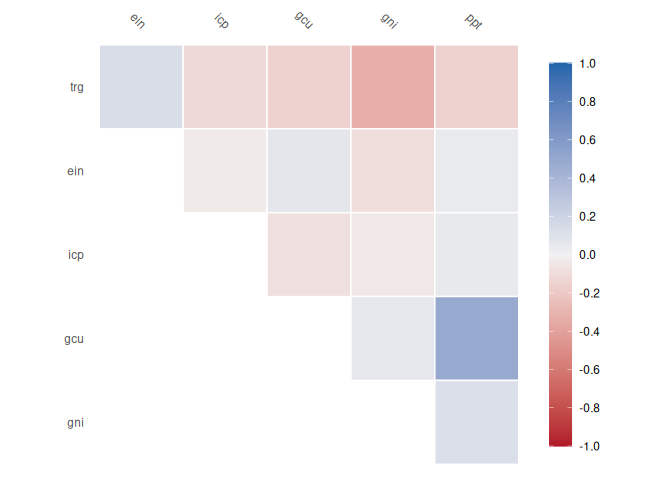
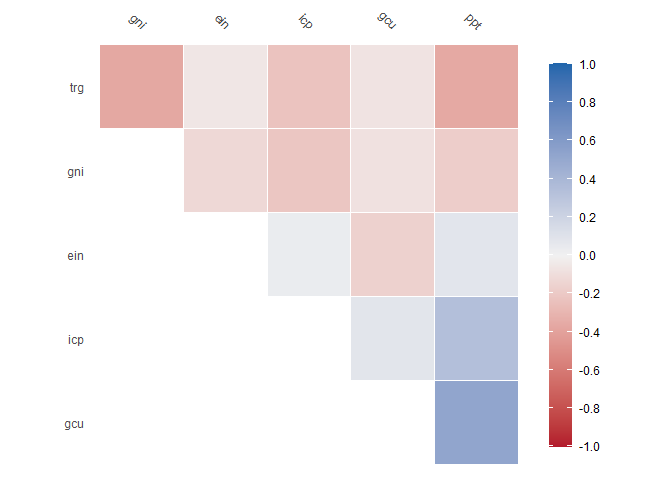
readme file updated

diff --git a/README.md b/README.md
@@ -36,12 +36,12 @@ head(wb)
 #> # A tibble: 6 × 4
 #>   iso3c indicator          year    value
 #>   <chr> <chr>             <dbl>    <dbl>
-#> 1 AFG   Population, total  2012 30466479
-#> 2 AFG   Population, total  2011 29249157
-#> 3 AFG   Population, total  2010 28189672
-#> 4 ALB   Population, total  2012  2900401
-#> 5 ALB   Population, total  2011  2905195
-#> 6 ALB   Population, total  2010  2913021
+#> 1 DZA   Population, total  2012 37260563
+#> 2 DZA   Population, total  2011 36543541
+#> 3 DZA   Population, total  2010 35856344
+#> 4 AGO   Population, total  2012 25188292
+#> 5 AGO   Population, total  2011 24259111
+#> 6 AGO   Population, total  2010 23364185
 ```
 
 Here you can see that the format is not conducive to regression or other
@@ -64,13 +64,13 @@ print(mdl)
 #> 6 trg                      Trade (% of GDP)
 #> Matrix: 
 #> # A tibble: 5 × 6
-#>     ein          gcu   gni   icp      ppt   trg
-#>   <dbl>        <dbl> <dbl> <dbl>    <dbl> <dbl>
-#> 1  NA   19907329778.    NA  6.44 30466479  NA  
-#> 2  NA   17805098206.    NA 11.8  29249157  NA  
-#> 3  NA   15856668556.    NA  2.18 28189672  NA  
-#> 4  16.3 12319834195.    29  2.03  2900401  76.5
-#> 5  33.3 12890760315.    NA  3.43  2905195  81.2
+#>     ein           gcu   gni   icp      ppt   trg
+#>   <dbl>         <dbl> <dbl> <dbl>    <dbl> <dbl>
+#> 1 -213. 227143746076.  NA    8.89 37260563  60.8
+#> 2 -249. 218331946925.  27.6  4.52 36543541  62.2
+#> 3 -275. 177785053940.  NA    3.91 35856344  63.5
+#> 4 -590. 128052915766.  NA   10.3  25188292  91.8
+#> 5 -619. 111789747671.  NA   13.5  24259111 100.
 ```
 
 This can now be used for regressions
@@ -85,20 +85,20 @@ summary(fit)
 #> 
 #> Residuals:
 #>     Min      1Q  Median      3Q     Max 
-#> -11.625  -5.824  -1.688   4.949  27.141 
+#> -11.128  -5.515   1.219   4.132  24.701 
 #> 
 #> Coefficients:
-#>              Estimate Std. Error t value Pr(>|t|)    
-#> (Intercept) 3.598e+01  5.183e-01  69.424   <2e-16 ***
-#> gcu         8.101e-15  2.879e-13   0.028    0.978    
-#> ppt         5.235e-09  3.325e-09   1.575    0.117    
+#>               Estimate Std. Error t value Pr(>|t|)    
+#> (Intercept)  3.959e+01  1.438e+00  27.523   <2e-16 ***
+#> gcu          3.055e-12  9.031e-12   0.338    0.737    
+#> ppt         -4.177e-08  3.828e-08  -1.091    0.282    
 #> ---
 #> Signif. codes:  0 '***' 0.001 '**' 0.01 '*' 0.05 '.' 0.1 ' ' 1
 #> 
-#> Residual standard error: 7.62 on 244 degrees of freedom
-#>   (404 observations deleted due to missingness)
-#> Multiple R-squared:  0.01423,    Adjusted R-squared:  0.006147 
-#> F-statistic: 1.761 on 2 and 244 DF,  p-value: 0.1741
+#> Residual standard error: 7.589 on 41 degrees of freedom
+#>   (163 observations deleted due to missingness)
+#> Multiple R-squared:  0.03422,    Adjusted R-squared:  -0.01289 
+#> F-statistic: 0.7264 on 2 and 41 DF,  p-value: 0.4898
 ```
 
 We can calculate and visualise correlations:
@@ -122,41 +122,27 @@ mdl$correlate()
 <img src="man/figures/README-unnamed-chunk-4-1.png" width="100%" />
 
     #> # A tibble: 6 × 7
-    #>   term      ein     gcu     gni     icp     ppt    trg
-    #>   <chr>   <dbl>   <dbl>   <dbl>   <dbl>   <dbl>  <dbl>
-    #> 1 ein   NA       0.0703 -0.0939 -0.0355  0.0434  0.132
-    #> 2 gcu    0.0703 NA       0.0649 -0.0879  0.492  -0.156
-    #> 3 gni   -0.0939  0.0649 NA      -0.0467  0.119  -0.332
-    #> 4 icp   -0.0355 -0.0879 -0.0467 NA       0.0557 -0.119
-    #> 5 ppt    0.0434  0.492   0.119   0.0557 NA      -0.154
-    #> 6 trg    0.132  -0.156  -0.332  -0.119  -0.154  NA
-
-We can also impute using xgbBoost:
-
-``` r
-#In built xgboost imputation function
-tmp <- mdl$xgb_impute()
-head(tmp)
-#> # A tibble: 6 × 5
-#>   iso3c indicator                              year    value      yhat
-#>   <chr> <chr>                                 <dbl>    <dbl>     <dbl>
-#> 1 AFG   Energy imports, net (% of energy use)  2012 NA       -1.09e- 1
-#> 2 AFG   GDP (current US$)                      2012  1.99e10  1.99e+10
-#> 3 AFG   Gini index                             2012 NA        4.34e+ 1
-#> 4 AFG   Inflation, consumer prices (annual %)  2012  6.44e 0  6.44e+ 0
-#> 5 AFG   Population, total                      2012  3.05e 7  3.05e+ 7
-#> 6 AFG   Trade (% of GDP)                       2012 NA        5.52e+ 1
-```
+    #>   term      ein     gcu     gni     icp     ppt     trg
+    #>   <chr>   <dbl>   <dbl>   <dbl>   <dbl>   <dbl>   <dbl>
+    #> 1 ein   NA      -0.161  -0.123   0.0364  0.0805 -0.0568
+    #> 2 gcu   -0.161  NA      -0.0786  0.0810  0.526  -0.0676
+    #> 3 gni   -0.123  -0.0786 NA      -0.216  -0.178  -0.367 
+    #> 4 icp    0.0364  0.0810 -0.216  NA       0.341  -0.231 
+    #> 5 ppt    0.0805  0.526  -0.178   0.341  NA      -0.364 
+    #> 6 trg   -0.0568 -0.0676 -0.367  -0.231  -0.364  NA
 
 We can also perform principal component analysis:
 
 ``` r
 # In built principal components analysis function
 tmp <- mdl$pca()
+#> Warning in PCA(self$child, graph = FALSE): Missing values are imputed by the
+#> mean of the variable: you should use the imputePCA function of the missMDA
+#> package
 plot(tmp, choix = "var")
 ```
 
-<img src="man/figures/README-unnamed-chunk-6-1.png" width="100%" />
+<img src="man/figures/README-unnamed-chunk-5-1.png" width="100%" />
 
 We can also append any data to the original data frame so long as the
 `newdata` is either:
@@ -179,13 +165,13 @@ names(dummy) = names(mdl$child)
 tmp <- mdl$assemble(dummy)
 head(tmp)
 #> # A tibble: 6 × 5
-#>   iso3c indicator                              year    value   yhat
-#>   <chr> <chr>                                 <dbl>    <dbl>  <dbl>
-#> 1 AFG   Energy imports, net (% of energy use)  2012 NA       0.0335
-#> 2 AFG   GDP (current US$)                      2012  1.99e10 0.400 
-#> 3 AFG   Gini index                             2012 NA       0.683 
-#> 4 AFG   Inflation, consumer prices (annual %)  2012  6.44e 0 0.702 
-#> 5 AFG   Population, total                      2012  3.05e 7 0.203 
-#> 6 AFG   Trade (% of GDP)                       2012 NA       0.288
+#>   iso3c indicator                              year    value  yhat
+#>   <chr> <chr>                                 <dbl>    <dbl> <dbl>
+#> 1 DZA   Energy imports, net (% of energy use)  2012 -2.13e 2 0.541
+#> 2 DZA   GDP (current US$)                      2012  2.27e11 0.220
+#> 3 DZA   Gini index                             2012 NA       0.952
+#> 4 DZA   Inflation, consumer prices (annual %)  2012  8.89e 0 0.638
+#> 5 DZA   Population, total                      2012  3.73e 7 0.382
+#> 6 DZA   Trade (% of GDP)                       2012  6.08e 1 0.223
 ### This is useful for imputation purposes as below
 ```
